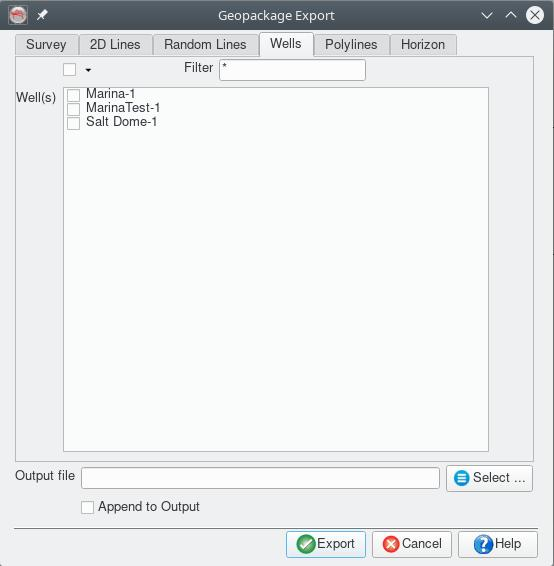
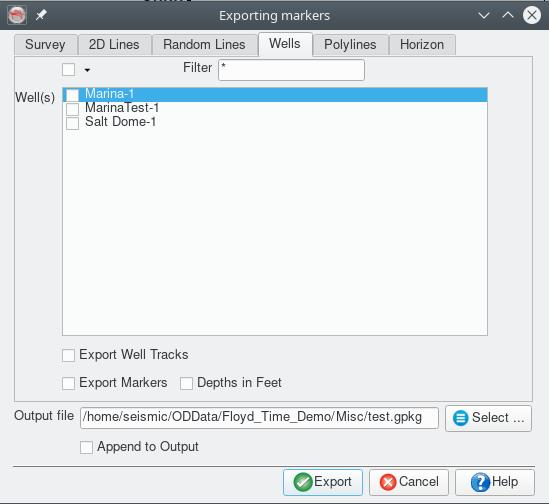
Release 6.4.3

Changed region(s): [[0.0, 0.0, 1.0, 1.0], [0.1239, 0.6845, 0.3406, 0.7143]]

diff --git a/docs/installation/download-binary.html b/docs/installation/download-binary.html
@@ -136,7 +136,7 @@
 <tbody>
 <tr>
 <td><strong>Linux</strong></td>
-<td><a href="https://github.com/waynegm/OpendTect-Plugins/releases/download/v6.4.2/opendtect-6.4.2-plugins_lux64.tar.gz" onclick="var d=new Date(); ga('set', 'nonInteraction', true);ga('send', 'event', 'Linux_6.4.2', 'download', d.toISOString().slice(0,9), 1);" download><button class="button"><i class="fa fa-download"></i><b>Download Linux_6.4.2</b></button></a></td>
+<td><a href="https://github.com/waynegm/OpendTect-Plugins/releases/download/v6.4.3/opendtect-6.4.3-plugins_lux64.tar.gz" onclick="var d=new Date(); ga('set', 'nonInteraction', true);ga('send', 'event', 'Linux_6.4.3', 'download', d.toISOString().slice(0,9), 1);" download><button class="button"><i class="fa fa-download"></i><b>Download Linux_6.4.3</b></button></a></td>
 </tr>
 <tr>
 <td></td>
@@ -144,7 +144,7 @@
 </tr>
 <tr>
 <td><strong>Windows</strong></td>
-<td><a href="https://github.com/waynegm/OpendTect-Plugins/releases/download/v6.4.2/opendtect-6.4.2-plugins_win64.zip" onclick="var d=new Date(); ga('set', 'nonInteraction', true);ga('send', 'event', 'Win_6.4.2', 'download', d.toISOString().slice(0,9), 1);" download><button class="button"><i class="fa fa-download"></i><b>Download Win_6.4.2</b></button></a></td>
+<td><a href="https://github.com/waynegm/OpendTect-Plugins/releases/download/v6.4.3/opendtect-6.4.3-plugins_win64.zip" onclick="var d=new Date(); ga('set', 'nonInteraction', true);ga('send', 'event', 'Win_6.4.3', 'download', d.toISOString().slice(0,9), 1);" download><button class="button"><i class="fa fa-download"></i><b>Download Win_6.4.3</b></button></a></td>
 </tr>
 <tr>
 <td></td>

diff --git a/docs/plugins/GeopackageExport.html b/docs/plugins/GeopackageExport.html
@@ -164,7 +164,19 @@
             <td>Wells</td>
             <td>Wells</td>
             <td>Points</td>
-            <td>Three attributes, the well name, UWID and status (not currently set by OpendTect)</td>
+            <td>Well surface location and 3 attributes, the well name, UWID and status (not currently set by OpendTect)</td>
+        </tr>
+        <tr>
+            <td>Well Tracks</td>
+            <td>WellTracks</td>
+            <td>LineString</td>
+            <td>Single attribute, the well name</td>
+        </tr>
+        <tr>
+            <td>Well Markers</td>
+            <td>WellMarkers</td>
+            <td>Points</td>
+            <td>Four attributes, well name, marker name, MD and TVDSS</td>
         </tr>
         <tr>
             <td>Open Polygons</td>

diff --git a/plugins/GeopackageExport.md b/plugins/GeopackageExport.md
@@ -21,7 +21,9 @@ The plugin adds a "Geopackage Export" item to the Survey-Export main menu. Selec
 ['2D Line Geometry','2DLines','LineString','Single attribute, the line name'],
 ['2D Line Stations','2DStations','Points','Two attributes, the line name and station number'],
 ['Random Lines','RandomLines','LineString','Single attribute, the random line name'],
-['Wells','Wells','Points','Three attributes, the well name, UWID and status (not currently set by OpendTect)'],
+['Wells','Wells','Points','Well surface location and 3 attributes, the well name, UWID and status (not currently set by OpendTect)'],
+['Well Tracks','WellTracks','LineString','Single attribute, the well name'],
+['Well Markers', 'WellMarkers', 'Points','Four attributes, well name, marker name, MD and TVDSS'],
 ['Open Polygons','PolyLines','LineString','Single attribute, the polyline name. The z values of the polyline are not exported'],
 ['Closed Polygons','Polygons','Polygon','Single attribute, the polygon name. The z values of the polygon are not exported'],
 ['2D and 3D Horizons','Set by the user','Point','Single attribute, the horizon z value in millisecs or metres depending on the Z domain of the survey ']]

diff --git a/installation/download-binary.md b/installation/download-binary.md
@@ -14,8 +14,8 @@ Compiled versions of the plugins for Linux x86_64 and Windows x86_64 are availab
 ## OpendTect Version 6.4
 | OS | LATEST |
 |---|---|
-| **Linux** | {{ download('Linux_6.4.2', 'https://github.com/waynegm/OpendTect-Plugins/releases/download/v6.4.2/opendtect-6.4.2-plugins_lux64.tar.gz') }} |
-| **Windows** | {{ download('Win_6.4.2', 'https://github.com/waynegm/OpendTect-Plugins/releases/download/v6.4.2/opendtect-6.4.2-plugins_win64.zip') }} |
+| **Linux** | {{ download('Linux_6.4.3', 'https://github.com/waynegm/OpendTect-Plugins/releases/download/v6.4.3/opendtect-6.4.3-plugins_lux64.tar.gz') }} |
+| **Windows** | {{ download('Win_6.4.3', 'https://github.com/waynegm/OpendTect-Plugins/releases/download/v6.4.3/opendtect-6.4.3-plugins_win64.zip') }} |
 
 
 ## OpendTect Version 6.2
